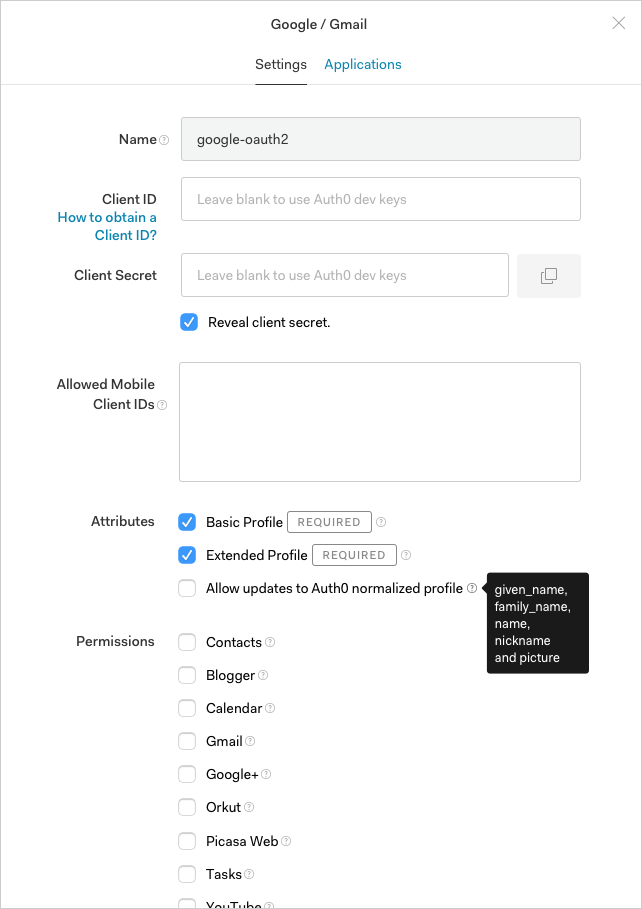
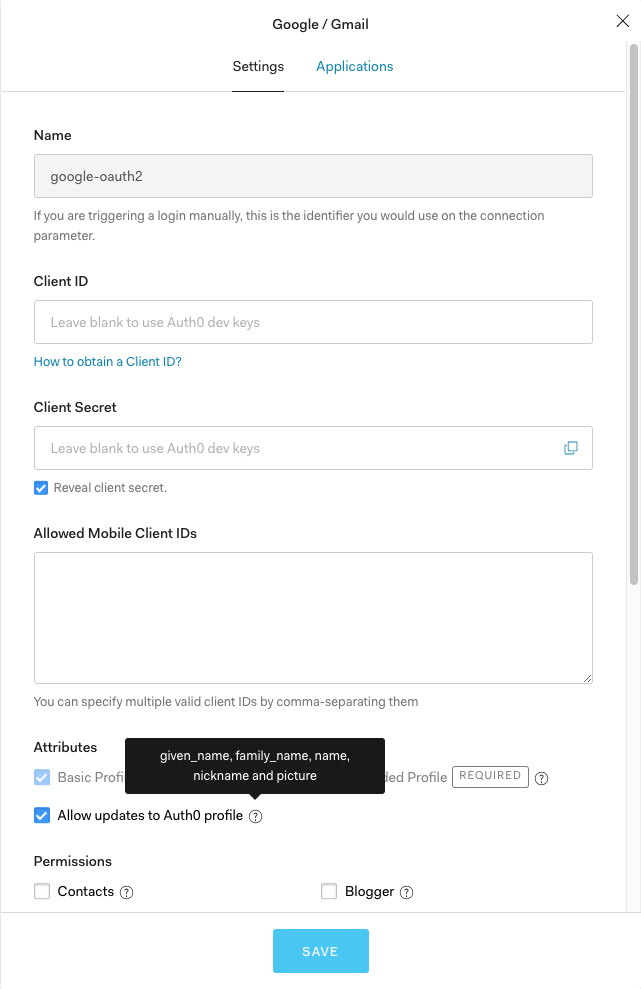
Naming and screen changes

diff --git a/articles/connections/guides/allow-update-normalized-user-profile.md b/articles/connections/guides/allow-update-normalized-user-profile.md
@@ -20,12 +20,12 @@ This guide will show you how to change when user attributes are updated for a co
 
 1. Navigate to the [Auth0 Dashboard](${manage_url}/).
 
-2. Click **Connections** in the lef nav and select the connection type (Social or Enterprise).
+2. Click **Connections** in the lef nav and select the connection type (Database, Social or Enterprise).
 
 3. Click the name of a connection to see its settings.
 
-4. Locate **Attributes**, and enable **Allow updates to Auth0 normalized profile**.
+4. Enable **Allow updates to Auth0 profile**.
 
-![Allow Updates for Normalized User Profile](/media/articles/connections/allow-update-normalized-user-profile.png)
+![Allow updates to Auth0 profile](/media/articles/connections/allow-update-normalized-user-profile.png)
 
 5. Scroll to the bottom of the Settings page, and click **Save**.
